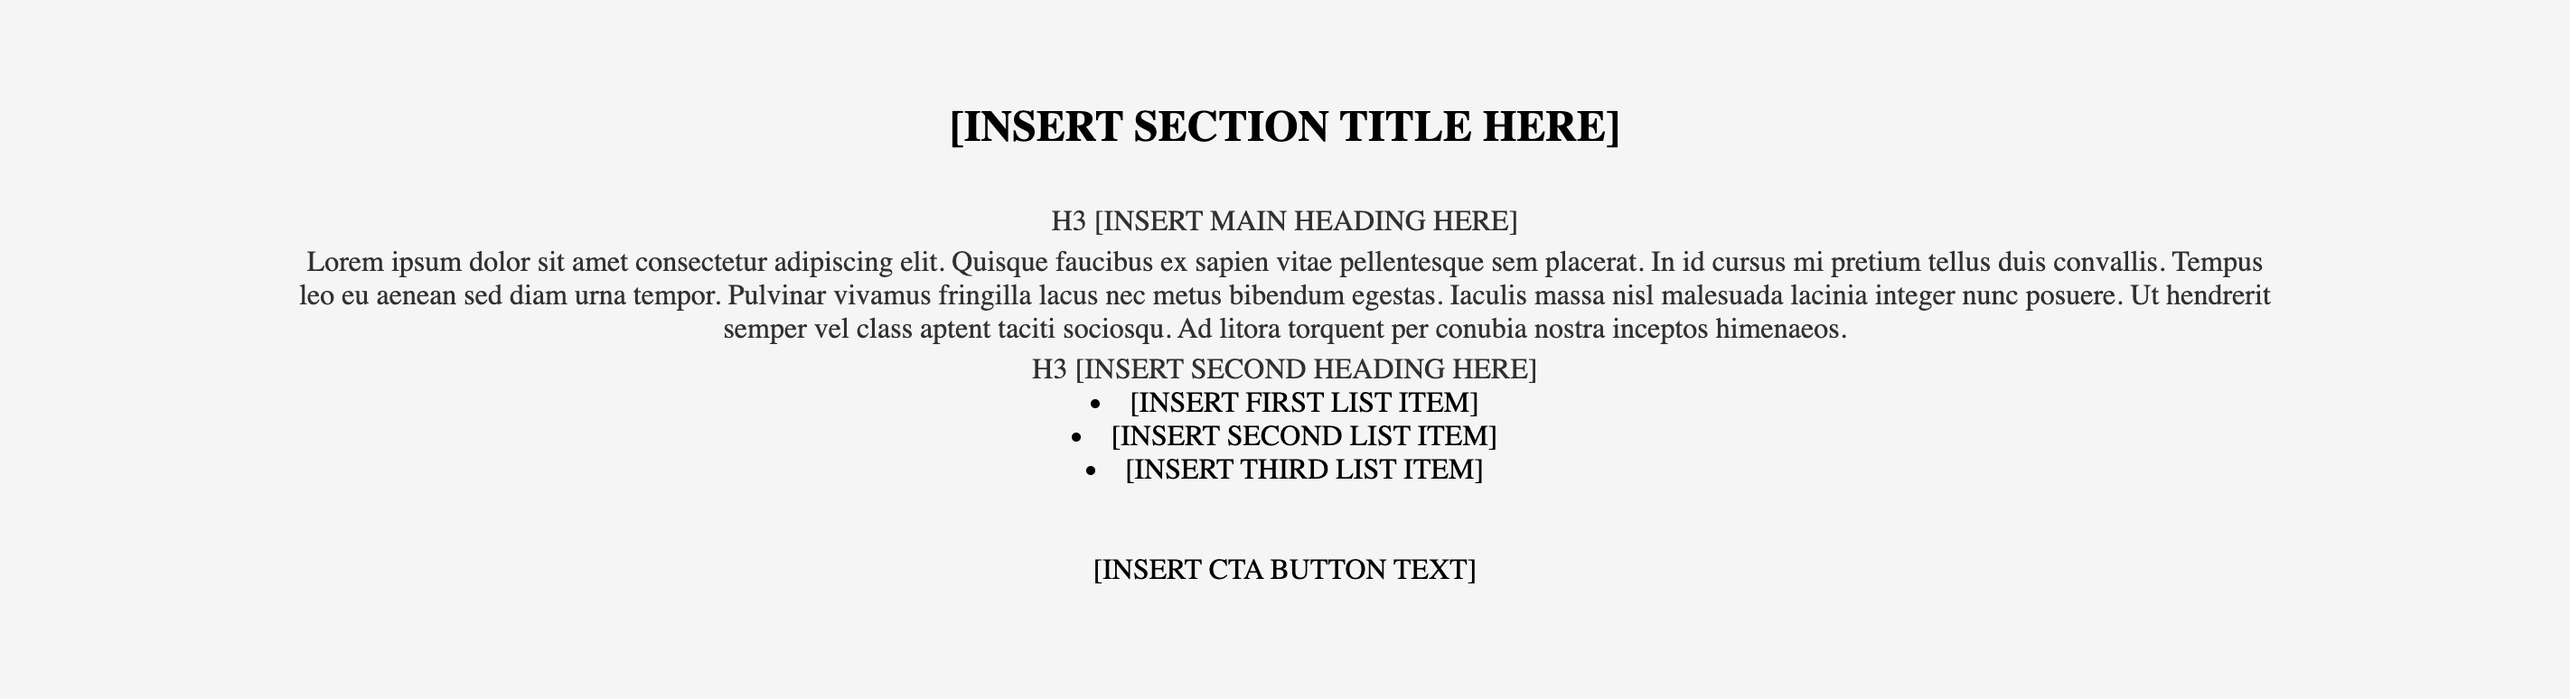
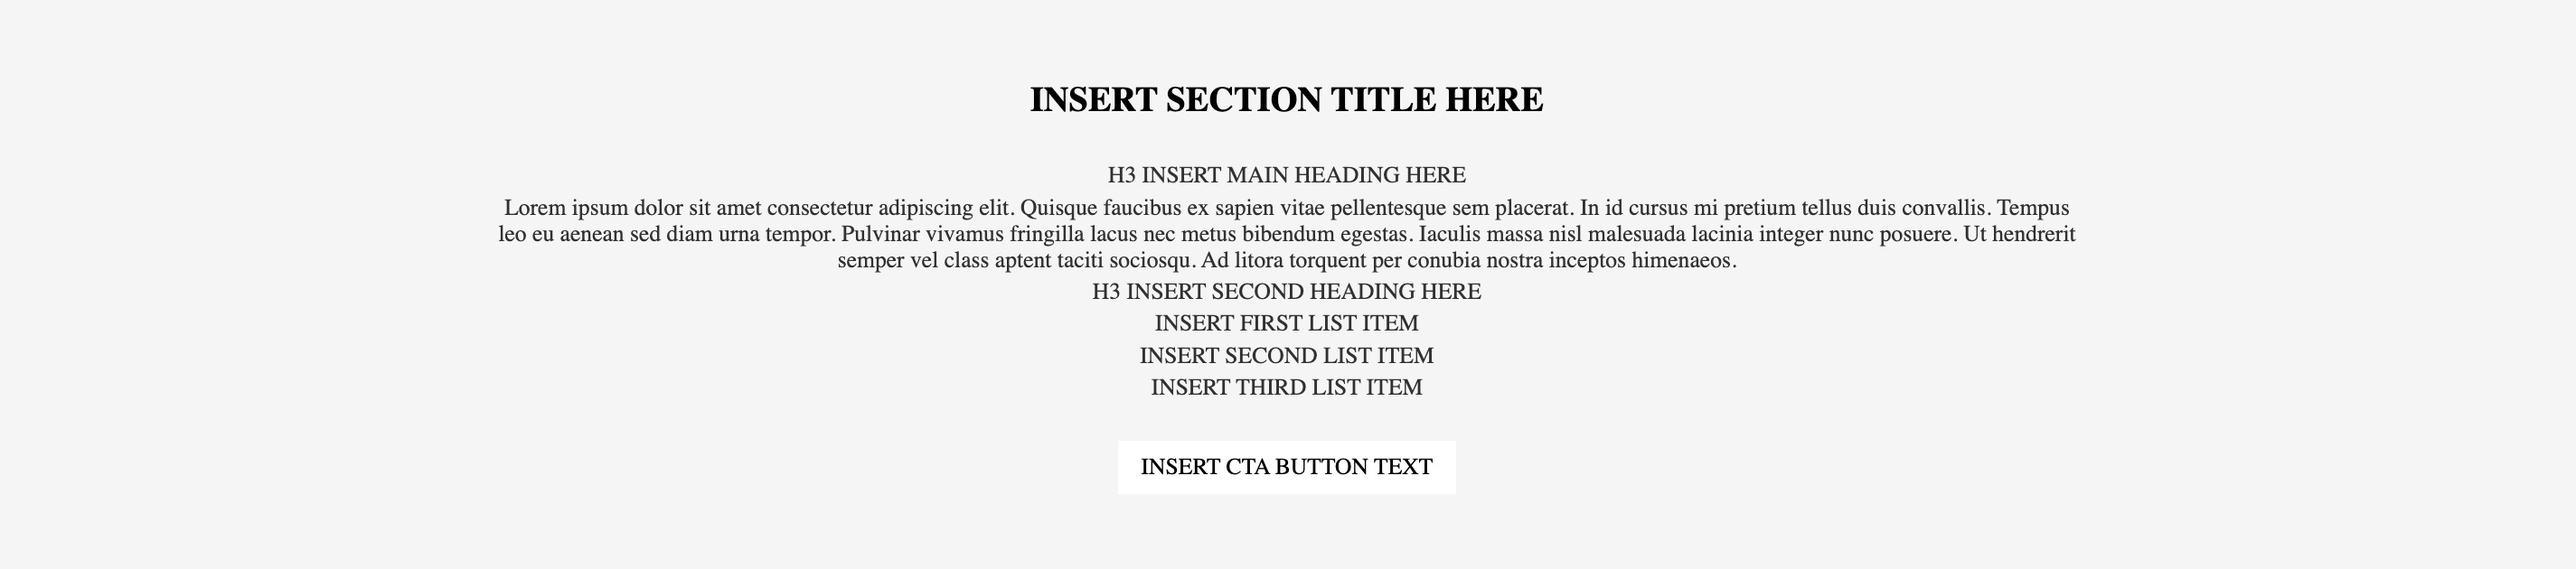
TextBlocks: replace sections, add MEDIA GAP and new previews (8,9); Media: support MEDIA GAP var; Zigzag: PADDING CONTENT on text col; README: add cheatsheet link

Changed region(s): [[0.1238, 0.2714, 0.8973, 0.6937], [0.3713, 0.1508, 0.6498, 0.2111], [0.4332, 0.7841, 0.5879, 0.8444]]

diff --git a/index.html b/index.html
@@ -600,10 +600,10 @@ BTN: BUTTON_TEXT | BUTTON_URL
                     
                     <div class="section">
                         <div class="section-media">
-                            <img src="screenshots/textblocks/1.jpg" alt="Text Block Example">
+                            <img src="screenshots/textblocks/1.jpg" alt="Text Block with BG and Button BG">
                         </div>
                         <div class="section-content">
-                        <h4>Text Block</h4>
+                        <h4>Text Block — BG Section + BTN BG</h4>
                         <div class="code-wrapper"><pre>/* start */
 LAYOUT: Text block
 TITLE: INSERT SECTION TITLE HERE
@@ -611,6 +611,7 @@ CONTAINER WIDTH: 1100 | 92%
 ALIGN CONTAINER: center
 ALIGN: center
 BG SECTION: #f5f5f5
+BTN BG: #ffffff
 
 H3 INSERT MAIN HEADING HERE
 Lorem ipsum dolor sit amet consectetur adipiscing elit. Quisque faucibus ex sapien vitae pellentesque sem placerat. In id cursus mi pretium tellus duis convallis. Tempus leo eu aenean sed diam urna tempor. Pulvinar vivamus fringilla lacus nec metus bibendum egestas. Iaculis massa nisl malesuada lacinia integer nunc posuere. Ut hendrerit semper vel class aptent taciti sociosqu. Ad litora torquent per conubia nostra inceptos himenaeos.
@@ -627,32 +628,101 @@ CTA: INSERT CTA BUTTON TEXT | /contact
 
                     <div class="section">
                         <div class="section-media">
-                            <img src="screenshots/textblocks/2.jpg" alt="Text Block Example">
+                            <img src="screenshots/textblocks/2.jpg" alt="Text Block Minimal">
                         </div>
                         <div class="section-content">
-                        <h4>Text Block</h4>
-                        <pre>/* start */
+                        <h4>Text Block — Minimal</h4>
+                        <div class="code-wrapper"><pre>/* start */
 LAYOUT: Text block
 TITLE: INSERT SECTION TITLE HERE
+BTN BG: #f5f5f5
 CONTAINER WIDTH: 1100 | 92%
 ALIGN CONTAINER: center
 ALIGN: center
 
 H3 INSERT MAIN HEADING HERE
-Lorem ipsum dolor sit amet consectetur adipiscing elit. Quisque faucibus ex sapien vitae pellentesque sem placerat. In id cursus mi pretium tellus duis convallis. Tempus leo eu aenean sed diam urna tempor. Pulvinar vivamus fringilla lacus nec metus bibendum egestas. Iaculis massa nisl malesuada lacinia integer nunc posuere. Ut hendrerit semper vel class aptent taciti sociosqu. Ad litora torquent per conubia nostra inceptos himenaeos.
+Lorem ipsum dolor sit amet consectetur adipiscing elit. Quisque faucibus ex sapien vitae pellentesque sem placerat. In id cursus mi pretium tellus duis convallis. Tempus leo eu aenean sed diam urna tempor. Pulvinar vivamus fringilla lacus nec metus bibendum egestas. Iaculis massa nisl malesuada лacinia integer nunc posuere. Ut hendrerit semper vel class aptent taciti sociosqu. Ad litora torquent per conubia nostra inceptos himenaeos.
 
 CTA: INSERT CTA BUTTON TEXT | /contact
-/* end */</pre>
+/* end */</pre></div>
                         </div>
                     </div>
 
                     <div class="section">
                         <div class="section-media">
-                            <img src="screenshots/textblocks/3.jpg" alt="Media Left Example">
+                            <img src="screenshots/textblocks/3.jpg" alt="Media Right No Gap, Full Height">
                         </div>
                         <div class="section-content">
-                        <h4>Media Left</h4>
-                        <pre>/* start */
+                        <h4>Media Right — Full Height + No Gap</h4>
+                        <div class="code-wrapper"><pre>/* start */
+LAYOUT: Media right
+BG SECTION: #f5f5f5
+COLS: 50 50
+IMG FULL HEIGHT:
+IMG MIN HEIGHT: 420
+MEDIA GAP: 0
+PADDING SECTION: 0
+PADDING CONTAINER: 0
+PADDING CONTENT: 24 24
+BTN BG: #f5f5f5
+
+IMG: https://beontop.netlify.app/16x9-1600x900.jpg | INSERT IMAGE ALT TEXT
+
+H2 INSERT SECTION TITLE HERE
+H3 INSERT FIRST HEADING HERE
+Lorem ipsum dolor sit amet consectetur adipiscing elit. Quisque faucibus ex sapien vitae pellentesque sem placerat. In id cursus mi pretium tellus duis convallis. Tempus leo eu aenean sed diam urna tempor. Pulvinar vivamus fringilla lacus nec metus bibendum egestas. Iaculis massa nisl malesuada lacinia integer nunc posuere. Ut hendrerit semper vel class aptent taciti sociosqu. Ad litora torquent per conubia nostra inceptos himenaeos.
+H3 INSERT SECOND HEADING HERE
+Lorem ipsum dolor sit amet consectetur adipiscing elit. Quisque faucibus ex sapien vitae pellentesque sem placerat. In id cursus mi pretium tellus duis convallis. Tempus leo eu aenean sed diam urna tempor. Pulvinar vivamus fringilla lacus nec metus bibendum egestas. Iaculis massa nisl malesuada lacinia integer nunc posuere. Ut hendrerit semper vel class aptent taciti sociosqu. Ad litora torquent per conubia nostra inceptos himenaeos.
+H3 INSERT THIRD HEADING HERE
+— INSERT FIRST LIST ITEM
+— INSERT SECOND LIST ITEM
+— INSERT THIRD LIST ITEM
+
+/* end */</pre></div>
+                        </div>
+                    </div>
+
+                    <div class="section">
+                        <div class="section-media">
+                            <img src="screenshots/textblocks/4.jpg" alt="Media Left No Gap, Full Height">
+                        </div>
+                        <div class="section-content">
+                        <h4>Media Left — Full Height + No Gap</h4>
+                        <div class="code-wrapper"><pre>/* start */
+LAYOUT: Media left
+BG SECTION: #f5f5f5
+COLS: 50 50
+IMG FULL HEIGHT:
+IMG MIN HEIGHT: 420
+MEDIA GAP: 0
+PADDING SECTION: 0
+PADDING CONTAINER: 0
+PADDING CONTENT: 24 24
+BTN BG: #f5f5f5
+
+IMG: https://beontop.netlify.app/16x9-1600x900.jpg | INSERT IMAGE ALT TEXT
+
+H2 INSERT SECTION TITLE HERE
+H3 INSERT FIRST HEADING HERE
+Lorem ipsum dolor sit amet consectetur adipiscing elit. Quisque faucibus ex sapien vitae pellentesque sem placerat. In id cursus mi pretium tellus duis convallis. Tempus leo eu aenean sed diam urna tempor. Pulvinar vivamus fringilla lacus nec metus bibendum egestas. Iaculis massa nisl malesuada lacinia integer nunc posuere. Ut hendrerit semper vel class aptent taciti sociosqu. Ad litora torquent per conubia nostra inceptos himenaeos.
+H3 INSERT SECOND HEADING HERE
+Lorem ipsum dolor sit amet consectetur adipiscing elit. Quisque faucibus ex sapien vitae pellentesque sem placerat. In id cursus mi pretium tellus duis convallis. Tempus leo eu aenean sed diam urna tempor. Pulvinar vivamus fringilla lacus nec metus bibendum egestas. Iaculis масса nisl malesuada lacinia integer nunc posuere. Ut hendrerit semper vel class aptent taciti sociosqu. Ad litora torquent per conubia nostra inceptos himenaeos.
+H3 INSERT THIRD HEADING HERE
+— INSERT FIRST LIST ITEM
+— INSERT SECOND LIST ITEM
+— INSERT THIRD LIST ITEM
+
+/* end */</pre></div>
+                        </div>
+                    </div>
+
+                    <div class="section">
+                        <div class="section-media">
+                            <img src="screenshots/textblocks/5.jpg" alt="Media Left With Descriptions and Buttons">
+                        </div>
+                        <div class="section-content">
+                        <h4>Media Left — Headings, Descriptions, CTA</h4>
+                        <div class="code-wrapper"><pre>/* start */
 LAYOUT: Media left
 TITLE: H2 INSERT SECTION TITLE HERE
 HEADING: h2
@@ -660,7 +730,9 @@ DESC TOP: INSERT TOP DESCRIPTION TEXT
 DESC TOP ALIGN: center
 COLS: 40 60
 BTN BG: #f5f5f5
+
 IMG: https://beontop.netlify.app/16x9-1600x900.jpg | INSERT IMAGE ALT TEXT
+
 H3 INSERT FIRST HEADING HERE
 INSERT FIRST PARAGRAPH TEXT HERE
 H3 INSERT SECOND HEADING HERE
@@ -674,42 +746,43 @@ DESC BOTTOM: INSERT BOTTOM DESCRIPTION TEXT
 DESC BOTTOM ALIGN: center
 BTN: INSERT BUTTON TEXT | INSERT BUTTON URL
 CTA: INSERT SECONDARY BUTTON TEXT | INSERT SECONDARY BUTTON URL
-/* end */</pre>
+/* end */</pre></div>
                         </div>
                     </div>
 
                     <div class="section">
                         <div class="section-media">
-                            <img src="screenshots/textblocks/4.jpg" alt="Media Right Example">
+                            <img src="screenshots/textblocks/6.jpg" alt="Media Right Simple">
                         </div>
                         <div class="section-content">
-                        <h4>Media Right</h4>
-                        <pre>/* start */
+                        <h4>Media Right — Simple</h4>
+                        <div class="code-wrapper"><pre>/* start */
 LAYOUT: Media right
 BG SECTION: #f5f5f5
 BTN BORDER: 1px solid #000000
 COLS: 40 60
-IMG: https://beontop.netlify.app/16x9-1600x900.jpg | INSERT IMAGE ALT TEXT
-H2 INSERT SECTION TITLE HERE
 
+IMG: https://beontop.netlify.app/16x9-1600x900.jpg | INSERT IMAGE ALT TEXT
+
+H2 INSERT SECTION TITLE HERE
 Lorem ipsum dolor sit amet consectetur adipiscing elit. Quisque faucibus ex sapien vitae pellentesque sem placerat. In id cursus mi pretium tellus duis convallis. Tempus leo eu aenean sed diam urna tempor. Pulvinar vivamus fringilla lacus nec metus bibendum egestas. Iaculis massa nisl malesuada lacinia integer nunc posuere. Ut hendrerit semper vel class aptent taciti sociosqu. Ad litora torquent per conubia nostra inceptos himenaeos.
-Lorem ipsum dolor sit amet consectetur adipiscing elit. Quisque faucibus ex sapien vitae pellentesque sem placerat. In id cursus mi pretium tellus duis convallis. Tempus leo eu aenean sed diam urna tempor. Pulvinar vivamus fringilla lacus nec metus bibendum egestas. Iaculis massa nisl malesuada lacinia integer nunc posuere. Ut hendrerit semper vel class aptent taciti sociosqu. Ad litora torquent per conubia nostra inceptos himenaeos.
+Lorem ipsum dolor sit amet consectetur adipiscing elit. Quisque faucibus ex sapien vitae pellentesque sem placerat. In id cursus mi pretium tellus duis convallis. Tempus leo eu aenean sed diam urna tempor. Pulvinar vivamus fringilla lacus nec metus bibendum egestas. Iaculis massa nisl malesuada лacinia integer nunc posuere. Ut hendrerit semper vel class aptent taciti sociosqu. Ad litora torquent per conubia nostra inceptos himenaeos.
 
 DESC BOTTOM: INSERT BOTTOM DESCRIPTION TEXT
 DESC BOTTOM ALIGN: center
 BTN: INSERT BUTTON TEXT | INSERT BUTTON URL
 CTA: INSERT SECONDARY BUTTON TEXT | INSERT SECONDARY BUTTON URL
-/* end */</pre>
+/* end */</pre></div>
                         </div>
                     </div>
 
                     <div class="section">
                         <div class="section-media">
-                            <img src="screenshots/textblocks/5.jpg" alt="Media Stack Example">
+                            <img src="screenshots/textblocks/7.jpg" alt="Media Stack">
                         </div>
                         <div class="section-content">
                         <h4>Media Stack</h4>
-                        <pre>/* start */
+                        <div class="code-wrapper"><pre>/* start */
 LAYOUT: Media stack
 IMAGE SIZE (RATIO): 16/9
 TITLE: INSERT SECTION TITLE HERE
@@ -728,22 +801,23 @@ Lorem ipsum dolor sit amet consectetur adipiscing elit quisque faucibus ex sapie
 
 BTN BG: #f5f5f5
 CTA: INSERT CTA BUTTON TEXT | INSERT CTA BUTTON URL
-/* end */</pre>
+/* end */</pre></div>
                         </div>
                     </div>
 
-
                     <div class="section">
                         <div class="section-media">
-                            <img src="screenshots/textblocks/6.jpg" alt="Zigzag bgflip Example">
+                            <img src="screenshots/textblocks/8.jpg" alt="Zigzag Alternating BGs">
                         </div>
                         <div class="section-content">
-                        <h4>Zigzag bgflip</h4>
-                        <pre>/* start */
+                        <h4>Zigzag bgflip — Alternating BG</h4>
+                        <div class="code-wrapper"><pre>/* start */
 LAYOUT: Zigzag bgflip
 TITLE: H2 INSERT SECTION TITLE HERE
-COLS: 40 60
+COLS: 50 50
 IMAGE SIZE (RATIO): 5/3
+ROW EVEN BG: #ffffff
+ROW ODD BG: #f5f5f5
 DESC TOP: INSERT TOP DESCRIPTION TEXT
 DESC TOP ALIGN: center
 
@@ -751,7 +825,6 @@ IMG: https://beontop.netlify.app/16x9-1600x900.jpg | Exterior detailing
 H3 INSERT SECOND HEADING HERE
 Lorem ipsum dolor sit amet consectetur adipiscing elit quisque faucibus ex sapien vitae pellentesque sem placerat in id cursus mi pretium tellus duis convallis tempus leo eu aenean sed diam urna tempor pulvinar vivamus fringilla lacus nec metus bibendum egestas iaculis massa nisl malesuada lacinia integer nunc posuere ut hendrerit semper vel class aptent taciti sociosqu ad litora torquent per conubia nostra inceptos himenaeos orci varius natoque penatibus et magnis dis parturient montes nascetur ridiculus mus donec rhoncus eros lobortis nulla molestie mattis scelerisque maximus eget fermentum odio phasellus non purus est efficitur laoreet mauris pharetra vestibulum fusce dictum risus.
 CTA: Get a quote | /quote
-ROW BG:
 
 IMG: https://beontop.netlify.app/16x9-1600x900.jpg | Interior detailing
 H3 INSERT SECOND HEADING HERE
@@ -760,14 +833,53 @@ INSERT SECOND LIST ITEM
 INSERT THIRD LIST ITEM
 Lorem ipsum dolor sit amet consectetur adipiscing elit quisque faucibus ex sapien vitae pellentesque sem placerat.
 BTN: Book now | /book
-ROW BG: #f5f5f5
 
 IMG: https://beontop.netlify.app/16x9-1600x900.jpg | Protective films
 H3 INSERT SECOND HEADING HERE
 Lorem ipsum dolor sit amet consectetur adipiscing elit quisque faucibus ex sapien vitae pellentesque sem placerat in id cursus mi pretium tellus duis convallis tempus leo eu aenean sed diam urna tempor pulvinar vivamus fringilla lacus nec metus bibendum egestas iaculis massa nisl malesuada lacinia integer nunc posuere ut hendrerit.
 Lorem ipsum dolor sit amet consectetur adipiscing elit quisque faucibus ex sapien vitae pellentesque sem placerat in id cursus mi pretium tellus duis convallis tempus leo eu aenean sed diam urna tempor pulvinar vivamus fringilla lacus nec metus bibendum egestas iaculis massa nisl malesuada lacinia integer nunc posuere ut hendrerit.
-ROW BG:
-/* end */</pre>
+/* end */</pre></div>
+                        </div>
+                    </div>
+
+                    <div class="section">
+                        <div class="section-media">
+                            <img src="screenshots/textblocks/9.jpg" alt="Zigzag Compact with Paddings">
+                        </div>
+                        <div class="section-content">
+                        <h4>Zigzag bgflip — Compact Rows</h4>
+                        <div class="code-wrapper"><pre>/* start */
+LAYOUT: Zigzag bgflip
+TITLE: H2 INSERT SECTION TITLE HERE
+COLS: 50 50
+IMAGE SIZE (RATIO): 5/3
+ROW EVEN BG: #ffffff
+ROW ODD BG: #f5f5f5
+ROW GAP: 0
+ROW PADDING: 0
+PADDING CONTENT: 24 24
+
+DESC TOP: INSERT TOP DESCRIPTION TEXT
+DESC TOP ALIGN: center
+
+IMG: https://beontop.netlify.app/16x9-1600x900.jpg | Exterior detailing
+H3 INSERT SECOND HEADING HERE
+Lorem ipsum dolor sit amet consectetur adipiscing elit quisque faucibus ex sapien vitae pellentesque sem placerat in id cursus mi pretium tellus duis convallis tempus leo eu aenean sed diam urna tempor pulvinar vivamus fringilla lacus nec metus bibendum egestas iaculis massa nisl malesuada lacinia integer nunc posuere ut hendrerit semper vel class aptent taciti sociosqu ad litora torquent per conubia nostra inceptos himenaeos orci varius natoque penatibus et magnis dis parturient montes nascetur ridiculus mus donec rhoncus eros lobortis nulla molestie mattis scelerisque maximus eget fermentum odio phasellus non purus est efficitur laoreet mauris pharetra vestibulum fusce dictum risus.
+CTA: Get a quote | /quote
+
+IMG: https://beontop.netlify.app/16x9-1600x900.jpg | Interior detailing
+H3 INSERT SECOND HEADING HERE
+INSERT FIRST LIST ITEM
+INSERT SECOND LIST ITEM
+INSERT THIRD LIST ITEM
+Lorem ipsum dolor sit amet consectetur adipiscing elit quisque faucibus ex sapien vitae pellentesque sem placerat.
+BTN: Book now | /book
+
+IMG: https://beontop.netlify.app/16x9-1600x900.jpg | Protective films
+H3 INSERT SECOND HEADING HERE
+Lorem ipsum dolor sit amet consectetur adipiscing elit quisque faucibus ex sapien vitae pellentesque sem placerat in id cursus mi pretium tellus duis convallis tempus leo eu aenean sed diam urna tempor pulvinar vivamus fringilla lacus nec metus bibendum egestas iaculis massa nisl malesuada lacinia integer nunc posuere ut hendrerit.
+Lorem ipsum dolor sit amet consectetur adipiscing elit quisque faucibus ex sapien vitae pellentesque sem placerat in id cursus mi pretium tellus duis convallis tempus leo eu aenean sed diam urna tempor pulvinar vivamus fringilla lacus nec metus bibendum egestas iaculis massa nisl malesuada lacinia integer nunc posuere ut hendrerit.
+/* end */</pre></div>
                         </div>
                     </div>
                 </div>

diff --git a/BeOnTop (HTML Generator) - актуальный/sidebar.html b/BeOnTop (HTML Generator) - актуальный/sidebar.html
@@ -229,7 +229,7 @@
 
 /* ============================== MEDIA (img + content) ============================== */
 .bot-media{
-  display:grid; gap:var(--bot-gap);
+  display:grid; gap:var(--bot-media-gap, var(--bot-gap));
   grid-template-areas:
     "image"
     "content";
@@ -460,10 +460,10 @@ details[open] .bot-faq__chev::after{ opacity:0; }
 .bot-seo b{ font-weight: 700; }
 
 /* ============================== ZIGZAG ============================== */
-.bot-zigzag{ display:grid; gap:var(--bot-gap); }
+.bot-zigzag{ display:grid; gap:var(--bot-zig-gap, var(--bot-gap)); }
 
 .bot-zigzag__row{
-  display:grid; gap:var(--bot-gap);
+  display:grid; gap:var(--bot-zig-gap, var(--bot-gap));
   grid-template-columns: 1fr;               /* мобильный стек */
   grid-template-areas:
     "image"
@@ -474,7 +474,7 @@ details[open] .bot-faq__chev::after{ opacity:0; }
   background-repeat: no-repeat;
   background-size: cover;
   background-position: center;
-  padding: var(--bot-gap);
+  padding: var(--bot-zig-row-p, var(--bot-gap));
   border-radius: var(--bot-radius, 0px);
 }
 

diff --git a/README.md b/README.md
@@ -1,0 +1,6 @@
+## Ссылка на шпаргалку
+
+- **Онлайн-версия**: https://konstantinsenatov.github.io/beontop-cheat-sheet/
+- **Открыть локально**: [index.html](./index.html)
+
+
